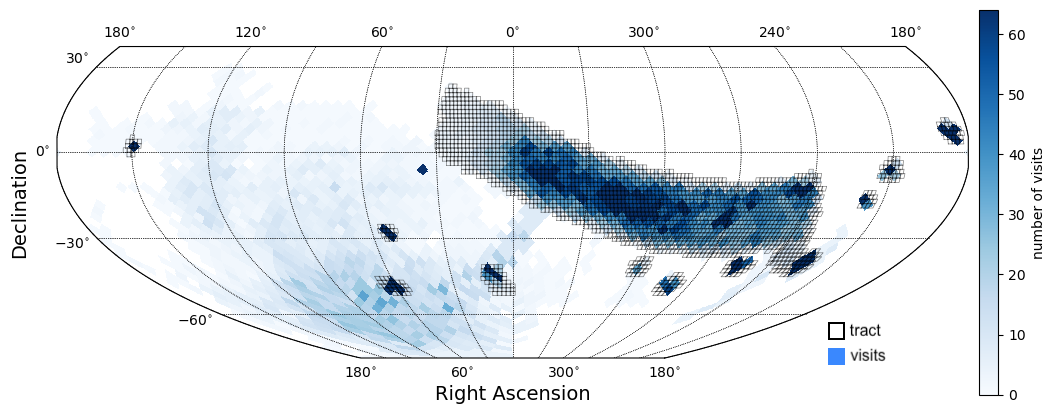
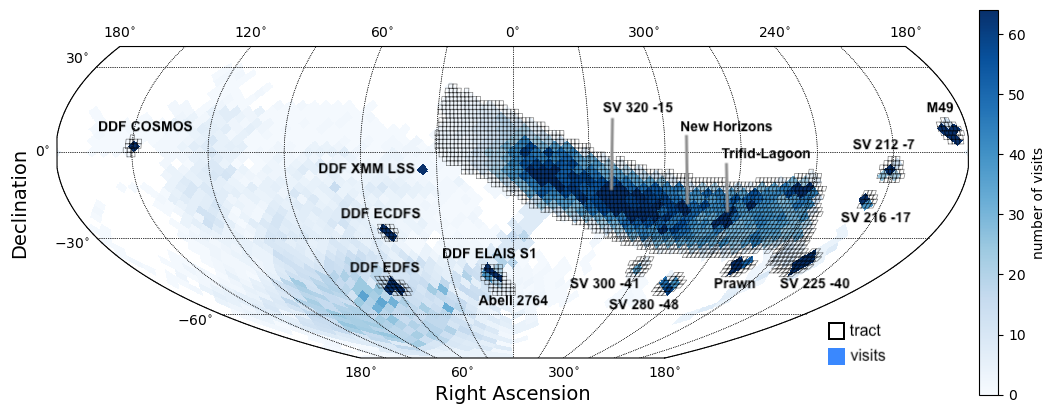
work

diff --git a/docs/overview/observations.rst b/docs/overview/observations.rst
@@ -14,80 +14,70 @@ The sky coverage (fields), filters, and number of visits (cadence).
 Sky coverage
 ============
 
-Figure 1, below, gives an impression of the sky coverage of DP2.
-**Caveat:** a tract is shown on this map if it exists in the Butler sky map for DP2, and a tract outline being drawn does not mean that it will have a deep coadd image in every patch.
-
 .. figure:: images/observations-1-dp2map-temp.png
     :name: dp2_map
-    :alt: Skymap of DP2 images.
+    :alt: DP2 coverage on the sky.
 
-    Figure 1: A preliminary map of the DP2 regions. Open black squares mark the locations of tracts in the skymaps (regions pre-identified for the creation of deep coadded images). Blue quadrilaterals are 19-sided HEALPix, similar in size to the LSSTCam 9.6 square degree field of view, of a density map of the number of visits. This plot is generated by one of the :doc:`/tutorials/index`.
+    Figure 1: A map of the DP2 coverage. Blue represents a density map of the number of visits; the quadrilaterals are 19-sided HEALPix, similar in size to the LSSTCam 9.6 square degree field of view. Open black squares mark the locations of tracts in the skymap, within which deep coadd images were made if there were a sufficient number of input visits.
+
+
+.. figure:: images/observations-2-dp2map-depth.png
+    :name: dp2_depth_map
+    :alt: DP2 deep coadd image depth over the sky.
+
+    Figure 2: A map of the i-band PSF limiting magnitude for DP2 deep coadd images. Deep coadd images are only made within the pre-defined tracts for which sufficient input visits exist. The total area covered by deep coadd images is approximatley 3700 square degrees.
 
 
 Wide-fast-deep region
 ---------------------
 
-``To be replaced with info about WFD. Describe lowdust, bulgy, and dusty_plane.``
+The region of sky covered similarly to the LSST's future "wide-fast-deep" (WFD) stretches from RA 240-30 deg, over 20 deg of Declination.
+It includes low-dust and dusty regions within the plane of the Milky Way, where the depth is shallower, as seen in Figure 2.
+There are three small fields within this "WFD" region, as labeled in Figure 1.
+
 
 Small fields
 ------------
 
-``To be replaced with info about the small field survey areas. Include their names and central coordinates in a table.``
-
-.. list-table:: Table 1: Small field survey area central coordinates.
-   :widths: 2 2 1
-   :header-rows: 1
-
-   * - Field name
-     - RA, Dec
-     - RA, Dec (deg)
-   * - M49 (Virgo)
-     - 12h29m36s +08d00m00s
-     - 187.4, +8
-   * - Add new here
-     - x
-     - x
+``To be replaced with info about the small fields; why they were done, etc.``
 
 
 .. csv-table:: Table 1: Small field survey area central coordinates.
-   :header: "Field Name", "RA, Dec [deg]"
-   :widths: 50, 50
+   :header: "Field Name", "RA, Dec", "RA, Dec [deg]"
+   :widths: 40, 40, 20
    :align: left
 
-    "Abell 2764", "5.5, -49.0"
-    "DESI SV3 R1", "180.5, -0.3"
-    "M49", "186.3, 6.9"
-    "New Horizons", "289.4, -20.2"
-    "Prawn", "253.5, -41.0"
-    "Rubin SV 212 -7", "210.2, -6.1"
-    "Rubin SV 216 -17", "216.1, -16.7"
-    "Rubin SV 225 -40", "225.0, -39.5"
-    "Rubin SV 280 -48", "280.1, -48.0"
-    "Rubin SV 300 -41", "300.3, -41.0"
-    "Rubin SV 320 -15", "320.2, -15.1"
-    "Trifid-Lagoon", "271.7, -23.9"
+    "Abell 2764", "00h22m00s -49d00m00s", "5.5 -49"
+    "DESI SV3 R1", "12h02m00s -00d18m00s", "180.5 -0.3"
+    "M49", "12h25m12s +06d54m00s", "186.3 6.9"
+    "Prawn", "16h54m00s -41d00m00s", "253.5 -41"
+    "Trifid-Lagoon", "18h06m48s -23d54m00s", "271.7 -23.9"
+    "New Horizons", "19h17m36s -20d12m00s", "289.4 -20.2"
+    "Rubin SV 212 -7", "14h00m48s -06d06m00s", "210.2 -6.1"
+    "Rubin SV 216 -17", "14h24m24s -16d42m00s", "216.1 -16.7"
+    "Rubin SV 225 -40", "15h00m00s -39d30m00s", "225 -39.5"
+    "Rubin SV 280 -48", "18h40m24s -48d00m00s", "280.1 -48"
+    "Rubin SV 300 -41", "20h01m12s -41d00m00s", "300.3 -41"
+    "Rubin SV 320 -15", "21h20m48s -15d06m00s", "320.2 -15.1"
 
 
 
 Deep drilling fields
 --------------------
 
-``To be replaced with info about the DDFs. Include their names and central coordinates in a table.``
+``To be replaced with info about the DDFs. Link to survey-strat pages.``
 
-.. list-table:: Table 2: Small field survey area central coordinates.
-   :widths: 2 2 1
-   :header-rows: 1
+.. csv-table:: Table 2: Deep drilling field central coordinates.
+   :header: "Field Name", "RA, Dec", "RA, Dec [deg]"
+   :widths: 40, 40, 20
+   :align: left
 
-   * - Field name
-     - RA, Dec
-     - RA, Dec (deg)
-   * - COSMOS
-     - 12h30m33s +02d13m48s
-     - 150.11, 2.23
-   * - Add new here
-     - x
-     - x
-
+    "DDF ELAIS S1", "00h38m00s -44d00m00s", "9.5 -44"
+    "DDF XMM LSS", "02h22m24s -04d48m00s", "35.6 -4.8"
+    "DDF ECDFS", "03h32m00s -28d06m00s", "53 -28.1"
+    "DDF EDFS a", "03h56m48s -49d12m00s", "59.2 -49.2"
+    "DDF EDFS b", "04h12m48s -47d48m00s", "63.2 -47.8"
+    "DDF COSMOS", "10h00m24s +02d06m00s", "150.1 2.1"
 
 
 .. _observations-filters: